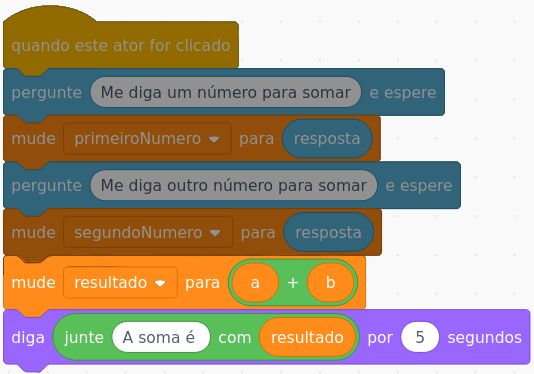
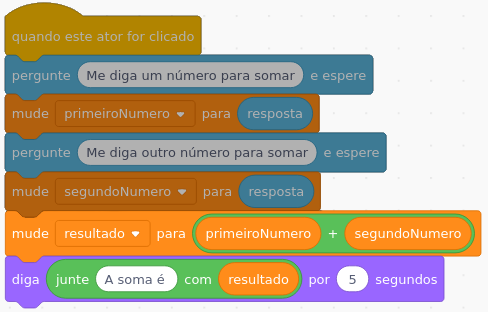
fix calculadora e add contagem regressiva

diff --git a/vereda/scratch-tutoriais/contagem/index.html b/vereda/scratch-tutoriais/contagem/index.html
@@ -1,0 +1,59 @@
+<html>
+<meta charset="utf-8"/>
+<head>
+<title> Fazendo contagens no Scratch - Prof Fernando Hattori</title>
+
+<link rel="stylesheet" href="binary.css">
+ <script src="https://ajax.googleapis.com/ajax/libs/jquery/3.5.1/jquery.min.js"></script>
+<style>
+.center {
+ margin: auto;
+ max-width: 1000px;
+ padding: 10px;
+ font-family: arial,sans-serif;
+ }
+
+.image-textunder{
+   margin-bottom:30px;
+   max-width:900px;
+ }
+
+.image-withtext{
+   max-width:900px;
+ }
+.circle {
+  border-radius: 50%;
+  width: 20px;
+  height: 20px;
+  padding: 10px;
+  background: #8231f5;
+  color: #000;
+  text-align: center;
+  font: 18px Arial, sans-serif;
+  font-weight: bold;
+}
+</style>
+</head>
+<body>
+<div class="center">
+<h1>Contagem regressiva</h1>
+<p>Opção de código para fazer contagem:</p>
+<img style="max-width:400px;" src="./contagem1.png"/>
+<p>O problema da primeira opção é se tivermos que fazer uma contagem muito maior, por exemplo, 
+como podemos contar de 100 a 1?<br>
+Segunda opção de código para fazer contagem:</p>
+<img style="max-width:400px;" src="./contagem2.png"/>
+<p>Agora uma opção para perguntar antes a partir de qual número fazer a contagem:</p>
+<img style="max-width:400px;" src="./contagem3.png"/>
+<br><br>
+<h2>Atividade</h2>
+<p>1) Agora vamos fazer a contagem na ordem correta (ou seja, sem ser regressiva): 1, 2, 3, 4, 5...;</p>
+<p>2) Vamos fazer a contagem na ordem correta de 1 a 1000;</p>
+<p>3) Agora veja se você consegue fazer a seguinte conta: somar todos os números de 1 a 1000;<br>
+<i>Como fazemos isso? Vamos somando: 1+2+3+4+5...+1000</i><br>
+<i>1+2=3 . 3+3=6 . 6+4=10 . 10+5=15 . 15+6=21 ... até 1000</i><br>
+<i>Dica: para fazer isso, precisamos criar uma nova variável</i></p>
+</div>
+<p><img style="width:12px;" src="./lisa-wink.gif"/></p>
+</body>
+</html>

diff --git a/vereda/scratch-tutoriais/calculadora/index.html b/vereda/scratch-tutoriais/calculadora/index.html
@@ -53,6 +53,7 @@ No caso, por padrão, ele adiciona 1 ao valor da variável escolhida.</p>
 A idéia dessa calculadora é ter 4 personagens, onde cada um deles é responsável por realizar uma das operações básicas.<br>
 E quando clicamos em um desses personagens, ele pede dois números, o scratch realiza a operação utilizando esses números e o personagem diz a resposta.</p>
 <img style="max-width:400px;" src="./4atores.png"/>
+<h4>Veja uns exemplos de como os atores funcionam</h4>
 <p>Por exemplo, clicando no ator da Adição:</p>
 <img style="max-width:400px;" src="./adicao-passo1.png"/>
 <img style="max-width:400px;" src="./adicao-passo2.png"/>
@@ -67,6 +68,7 @@ E quando clicamos em um desses personagens, ele pede dois números, o scratch re
 Depois disso, precisamos fazer os atores pedirem os números que usaremos na operação (vamos fazer a soma de exemplo juntos):</p>
 <img style="max-width:400px;" src="./algoritmo-passo1.png"/>
 <p>Nós fazemos isso utilizando o bloco de "pergunte" e guardamos a resposta recebida na variável "primeiroNumero".<br>
+<i>Lembre-se de criar essa variável e as próximas que vamos utilizar.</i><br>
 Depois podemos fazer para o segundo número da soma.</p>
 <img style="max-width:400px;" src="./algoritmo-passo2.png"/>
 <p>Depois precisamos fazer o cálculo da soma.<br>

diff --git a/index.html b/index.html
@@ -15,6 +15,7 @@
 <p><a href="./vereda/scratch-tutoriais/historia/">Scratch - Diálogo</a></p>
 <p><a href="./vereda/scratch-cards/catch/">Scratch - Jogo Catch</a></p>
 <p><a href="./vereda/scratch-tutoriais/cenarios/">Scratch - Mudança de cena</a></p>
+<p><a href="./vereda/scratch-tutoriais/contagem/">Scratch - Contagem regressiva</a></p>
 <p><a href="./vereda/scratch-tutoriais/calculadora/">Scratch - Calculadora</a></p>
 <br>
 
